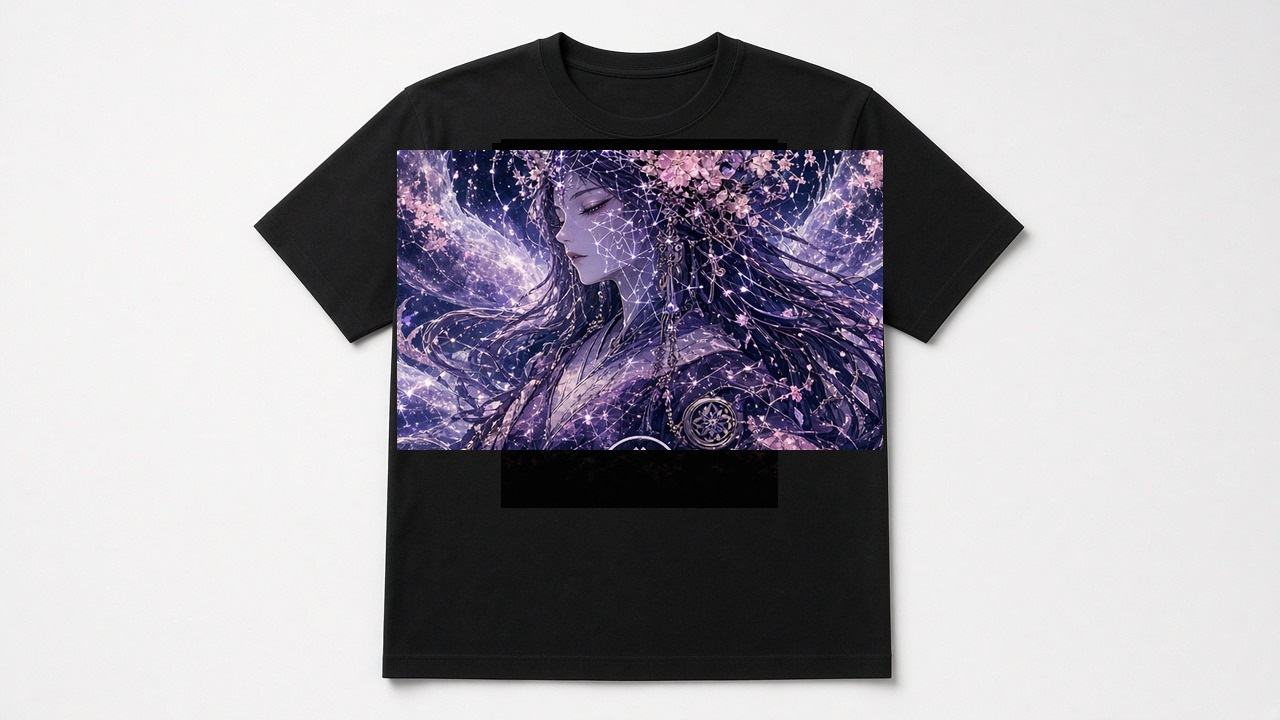
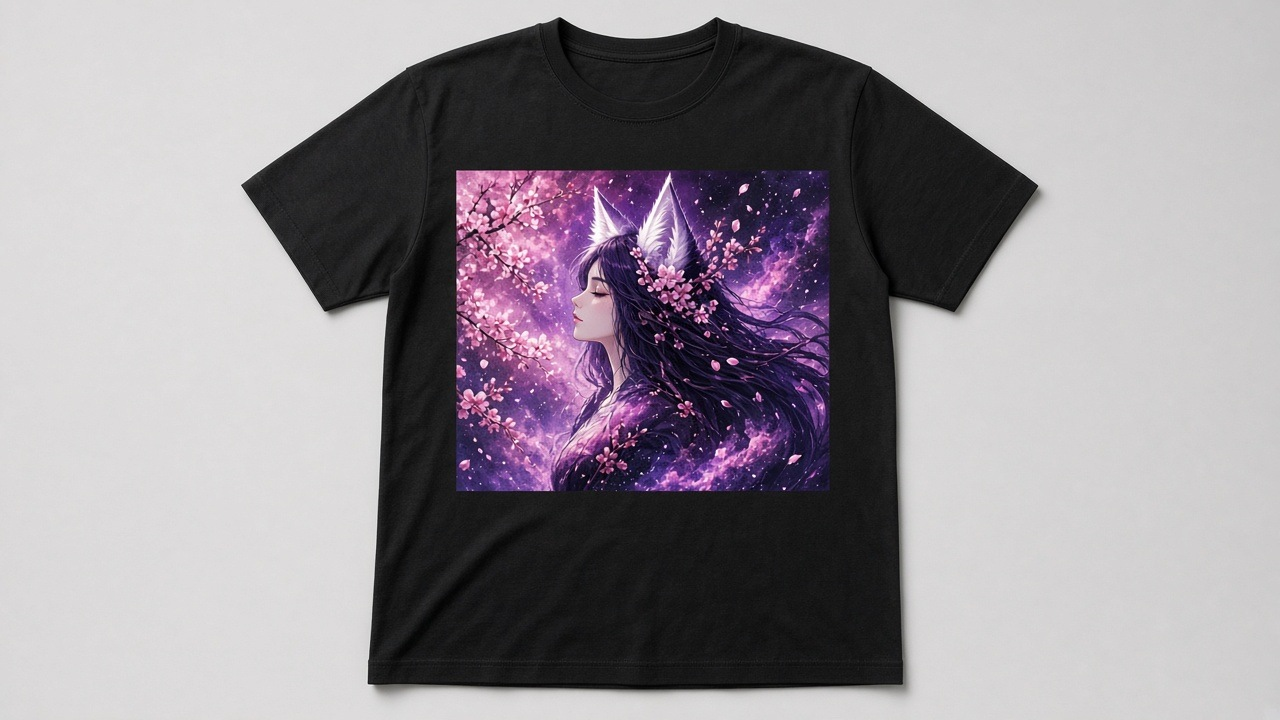
Make Chest print a live lane at ten cards.
Jason cleared the lane. Nine-Tail Shrine, Chrome Crow Storm, and Astral Fox Empress are live at AU$47 with the black-bar-fixed mockups. Nebula Queen chest stays held. The three chest print PNGs are still not in the tree.

diff --git a/shop/tests/test_store.py b/shop/tests/test_store.py
@@ -197,7 +197,8 @@ class CopyAndPriceTests(unittest.TestCase):
         }
         for design in chest:
             if design["slug"] in ready_chest:
-                self.assertEqual(design["status"], "ready")
+                self.assertEqual(design["status"], "live")
+                self.assertTrue(design["image"].endswith(f"{design['slug']}-chest.jpg"))
         for design in chest:
             self.assertEqual([item["id"] for item in design["fabrics"]], ["chest"])
             self.assertEqual(design["fabrics"][0]["price_cents"], 4700)
@@ -286,7 +287,7 @@ class CopyAndPriceTests(unittest.TestCase):
         self.assertEqual(brush["status"], "preview")
         self.assertEqual(brush["count"], 4)
         chest_lane = next(item for item in public["collections"] if item["id"] == "chest-dtg")
-        self.assertEqual(chest_lane["status"], "ready")
+        self.assertEqual(chest_lane["status"], "live")
         self.assertEqual(chest_lane["count"], 10)
         bio = next(item for item in public["collections"] if item["id"] == "biomechanical")
         self.assertEqual(bio["status"], "preview")
@@ -393,7 +394,7 @@ class CopyAndPriceTests(unittest.TestCase):
             "chest-astral-fox-empress": "chest/Rogers-Inc-Designs-astral-fox-empress-front-4500x5400.png",
         }
         for slug, relative in pending_chest_print.items():
-            self.assertEqual(stored_slugs[slug]["status"], "ready")
+            self.assertEqual(stored_slugs[slug]["status"], "live")
             self.assertEqual(stored_slugs[slug]["print_ready"], relative)
             self.assertFalse((ROOT / "print-ready" / relative).is_file())
         missing_print = ()
@@ -501,8 +502,8 @@ class CopyAndPriceTests(unittest.TestCase):
             "chest-tengu-storm-chrome-crow",
             "chest-astral-fox-empress",
         ):
-            with self.assertRaises(ShopError):
-                quote_lines([{"slug": slug, "fabric": "chest", "size": "M", "qty": 1}])
+            quoted = quote_lines([{"slug": slug, "fabric": "chest", "size": "M", "qty": 1}])
+            self.assertEqual(quoted["lines"][0]["unit_cents"], 4700)
         with self.assertRaises(ShopError):
             quote_lines([{"slug": "starbound-nebula-queen", "fabric": "cotton", "size": "M", "qty": 1}])
         wallpaper = quote_lines([{"slug": "wallpaper-crimson-the-last-ronin", "fabric": "wallpaper", "size": "Download", "qty": 1}])

diff --git a/shop/BEFORE-PUBLISH.md b/shop/BEFORE-PUBLISH.md
@@ -18,7 +18,7 @@ Also still open:
 - Crimson Sun Last Ronin is featured because the mockup is wired. Quiet Rain Umbrella Crossing and Window Seat are featured. Four Quiet Rain fills are in the catalog as upcoming, not on the shop: Ramen Steam Alley, Bus Stop Downpour, Vending Glow Puddle, Quiet Lantern Bridge. They are print-ready and the mockups are not on this site. Jason cleared Nebula Queen. It is live in Full Bleed / Starbound at polyester AU$65. Cotton stays the held AU$71 fabric until first sales. The shop photo is `nebula-queen-nudge-down-shirt-mockup.jpg` only. The print file is `print-ready/aop/Rogers-Inc-Designs-starbound-nebula-queen-aop-nudge-down-4500x5400.png`. Do not use the centered, fill, front-chest, or older poly/cotton mockups. The chest print of that scene stays held.
 - Blackletter is 10 live cards. As High As Fuel is 10 live cards. The main Fuel tee uses the white and heather photos only. Print-ready DTG files are 4500×5400 RGB on white, stored under `shop/print-ready/` for Printful later. They are not shop photos. Fuel prints are for white and heather only. On hand: all six Gothic fills (Blood Covenant, Iron Psalm, Wraith March, Bone Chapel, Hex Altar, Pale Reign) and all nine Fuel slogan prints (Too High To Care, Gas Money Went To This, Budget Went Up In Smoke, Running On Fumes, Empty Tank Full Heart, High Mileage Low Motivation, Premium Grade Only, Check Engine Chill Mode, Slow Lane High Life). Print-ready DTG files for the original four Blackletter cards (Void King, Ash Iron, Night Warden, Grave Shift) and the main As High As The Price Of Fuel tee are now in `shop/print-ready/gothic/` and `shop/print-ready/fuel/` (Fuel uses the nobox white RGB front; dark variant also present). Brush & Smoke is 4 preview cards. Biomechanical is the Half Machine Skull preview card.
 - Wave-1 prices are locked if those products are added later: hoodie AU$75, AOP beanie AU$49, Flexfit AU$55. No mockups for them are on this site, so they are not in the catalog.
-- Full Bleed is a live lane at 22 shop cards. Nebula Queen is one of those cards, polyester AU$65. Chest print is ready to list at 10 (7 live hero chests + 3 new ready: Nine-Tail Shrine, Chrome Crow Storm, Astral Fox Empress). Nebula Queen chest stays held. Print-ready paths for the 3 new chests are recorded as `shop/print-ready/chest/`. Those three PNGs are not in this commit. Living Screens is a live lane of wallpaper cards from the preview images on this site: Crimson Sun 9, Quiet Rain 8, plus Oni, Ronin Rain, Starbound, and Neon Cyberpunk collages and the two desktop shots. Pack price AU$12. Design still counts 57 packs; only the images in the preview zips are cards. The AU$10 add-on with a tee stays held, and the pack zip is not a separate download. Night Shift is seasonal, not an adults-only lane. Blackletter and As High As Fuel are live lanes. Their held marketing blurbs stay off the public shop. Demo checkout only. No deploy.
+- Full Bleed is a live lane at 22 shop cards. Nebula Queen is one of those cards, polyester AU$65. Chest print is live at 10 (7 prior hero chests + Nine-Tail Shrine, Chrome Crow Storm, Astral Fox Empress with black-bar-fixed mockups). Nebula Queen chest stays held. Print-ready paths for the 3 new chests are recorded as `shop/print-ready/chest/`. Those three PNGs are not in this tree yet. Living Screens is a live lane of wallpaper cards from the preview images on this site: Crimson Sun 9, Quiet Rain 8, plus Oni, Ronin Rain, Starbound, and Neon Cyberpunk collages and the two desktop shots. Pack price AU$12. Design still counts 57 packs; only the images in the preview zips are cards. The AU$10 add-on with a tee stays held, and the pack zip is not a separate download. Night Shift is seasonal, not an adults-only lane. Blackletter and As High As Fuel are live lanes. Their held marketing blurbs stay off the public shop. Demo checkout only. No deploy.
 - Remove `<meta name="robots" content="noindex">` when Jason says the shop should be indexed. Test-mode Stripe still keeps the shop out of search.
 - Stripe Checkout is ready and parked. Leave `STRIPE_SECRET_KEY` unset. Use `SHOP_PAYID` or `SHOP_CHECKOUT=demo` until Jason adds `sk_test_` later. Do not commit keys. The server rejects `sk_live_` / `rk_live_`. See README “Payments”.
 - Free shipping on the Stripe session is Australia only. Do not add a zero shipping rate for other countries. Overseas postage stays closed until a charged rate is set.
